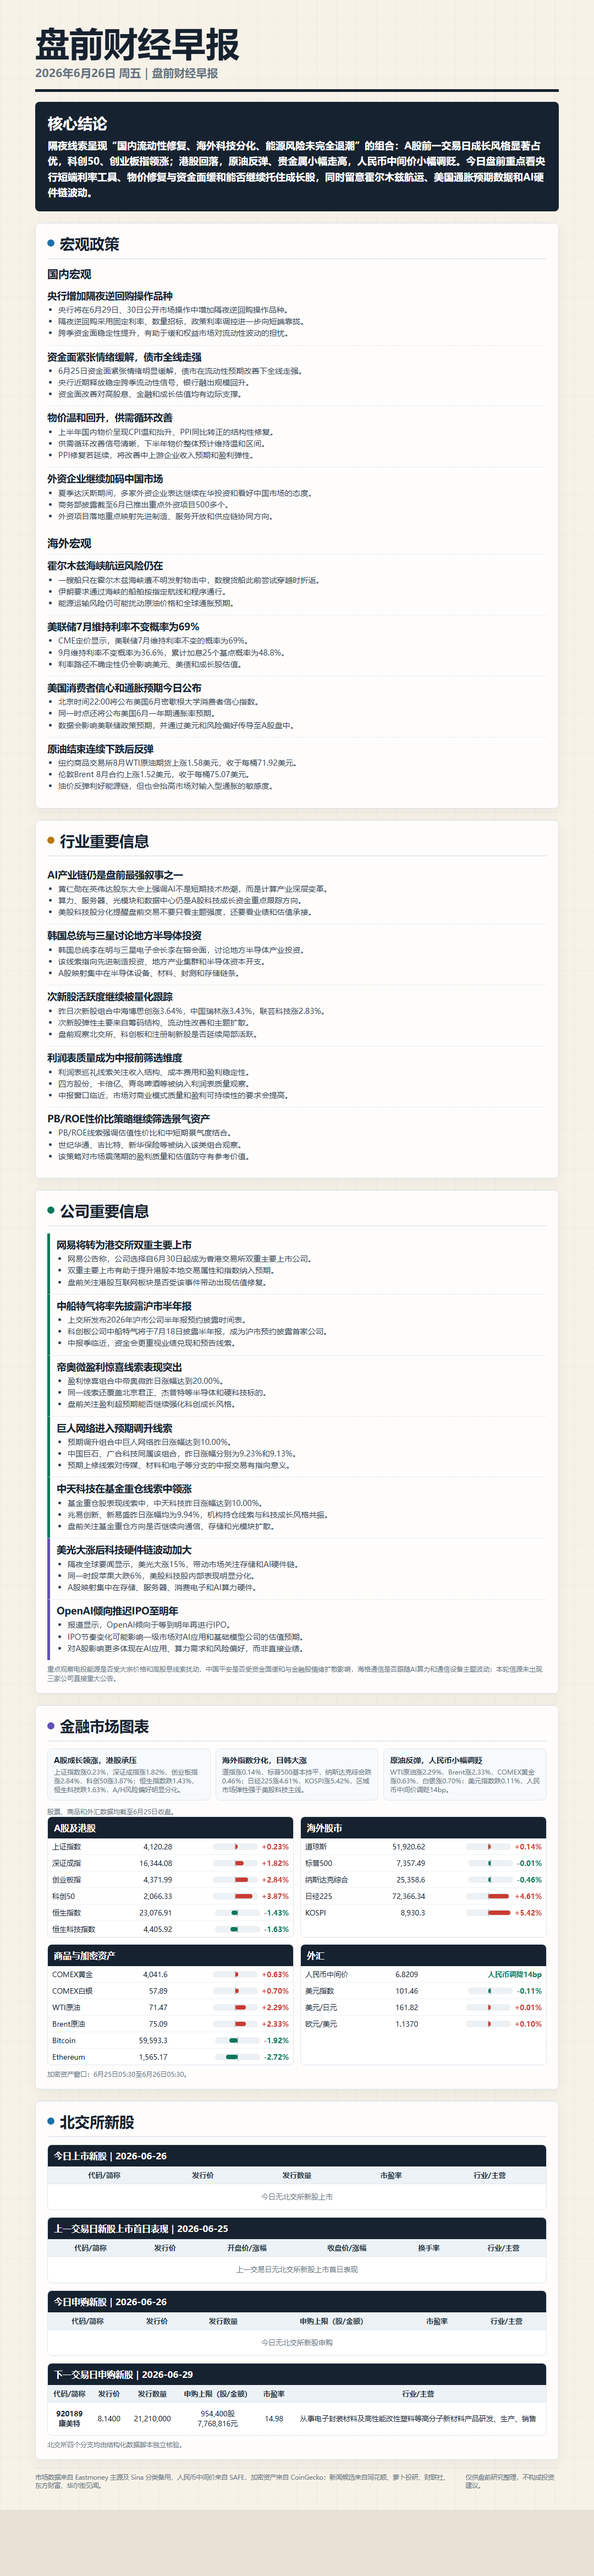
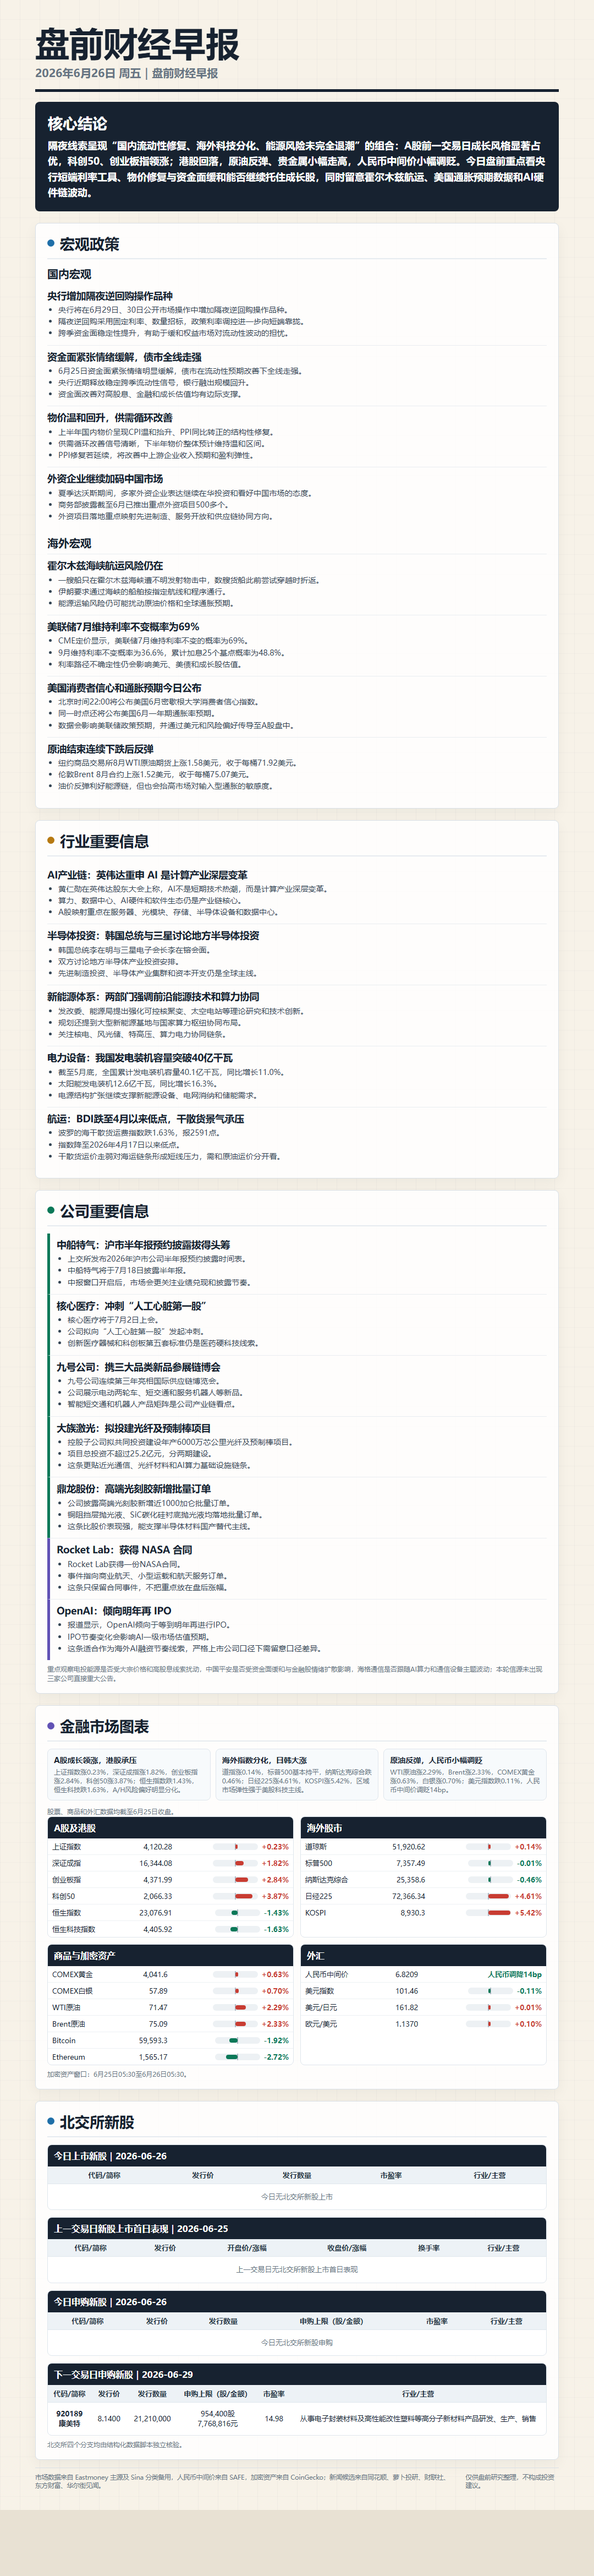
Correct 2026-06-26 morning brief

Changed region(s): [[0.0917, 0.3432, 0.5194, 0.6551]]

diff --git a/2026-06-26/report.html b/2026-06-26/report.html
@@ -59,53 +59,53 @@
     </article></section>
   <section class="section"><h2 class="section-title"><span class="dot" style="background:var(--gold)"></span>行业重要信息</h2>
     <article class="item ">
-      <h4>AI产业链仍是盘前最强叙事之一</h4>
-      <ul><li>黄仁勋在英伟达股东大会上强调AI不是短期技术热潮，而是计算产业深层变革。</li><li>算力、服务器、光模块和数据中心仍是A股科技成长资金重点跟踪方向。</li><li>美股科技股分化提醒盘前交易不要只看主题强度，还要看业绩和估值承接。</li></ul>
+      <h4>AI产业链：英伟达重申 AI 是计算产业深层变革</h4>
+      <ul><li>黄仁勋在英伟达股东大会上称，AI不是短期技术热潮，而是计算产业深层变革。</li><li>算力、数据中心、AI硬件和软件生态仍是产业链核心。</li><li>A股映射重点在服务器、光模块、存储、半导体设备和数据中心。</li></ul>
     </article>
     <article class="item ">
-      <h4>韩国总统与三星讨论地方半导体投资</h4>
-      <ul><li>韩国总统李在明与三星电子会长李在镕会面，讨论地方半导体产业投资。</li><li>该线索指向先进制造投资、地方产业集群和半导体资本开支。</li><li>A股映射集中在半导体设备、材料、封测和存储链条。</li></ul>
+      <h4>半导体投资：韩国总统与三星讨论地方半导体投资</h4>
+      <ul><li>韩国总统李在明与三星电子会长李在镕会面。</li><li>双方讨论地方半导体产业投资安排。</li><li>先进制造投资、半导体产业集群和资本开支仍是全球主线。</li></ul>
     </article>
     <article class="item ">
-      <h4>次新股活跃度继续被量化跟踪</h4>
-      <ul><li>昨日次新股组合中海博思创涨3.64%，中国瑞林涨3.43%，联芸科技涨2.83%。</li><li>次新股弹性主要来自筹码结构、流动性改善和主题扩散。</li><li>盘前观察北交所、科创板和注册制新股是否延续局部活跃。</li></ul>
+      <h4>新能源体系：两部门强调前沿能源技术和算力协同</h4>
+      <ul><li>发改委、能源局提出强化可控核聚变、太空电站等理论研究和技术创新。</li><li>规划还提到大型新能源基地与国家算力枢纽协同布局。</li><li>关注核电、风光储、特高压、算力电力协同链条。</li></ul>
     </article>
     <article class="item ">
-      <h4>利润表质量成为中报前筛选维度</h4>
-      <ul><li>利润表巡礼线索关注收入结构、成本费用和盈利稳定性。</li><li>四方股份、卡倍亿、青岛啤酒等被纳入利润表质量观察。</li><li>中报窗口临近，市场对商业模式质量和盈利可持续性的要求会提高。</li></ul>
+      <h4>电力设备：我国发电装机容量突破40亿千瓦</h4>
+      <ul><li>截至5月底，全国累计发电装机容量40.1亿千瓦，同比增长11.0%。</li><li>太阳能发电装机12.6亿千瓦，同比增长16.3%。</li><li>电源结构扩张继续支撑新能源设备、电网消纳和储能需求。</li></ul>
     </article>
     <article class="item ">
-      <h4>PB/ROE性价比策略继续筛选景气资产</h4>
-      <ul><li>PB/ROE线索强调估值性价比和中短期景气度结合。</li><li>世纪华通、吉比特、新华保险等被纳入该类组合观察。</li><li>该策略对市场震荡期的盈利质量和估值防守有参考价值。</li></ul>
+      <h4>航运：BDI跌至4月以来低点，干散货景气承压</h4>
+      <ul><li>波罗的海干散货运费指数跌1.63%，报2591点。</li><li>指数降至2026年4月17日以来低点。</li><li>干散货运价走弱对海运链条形成短线压力，需和原油运价分开看。</li></ul>
     </article></section>
   <section class="section"><h2 class="section-title"><span class="dot" style="background:var(--green)"></span>公司重要信息</h2>
     <article class="item company-line">
-      <h4>网易将转为港交所双重主要上市</h4>
-      <ul><li>网易公告称，公司选择自6月30日起成为香港交易所双重主要上市公司。</li><li>双重主要上市有助于提升港股本地交易属性和指数纳入预期。</li><li>盘前关注港股互联网板块是否受该事件带动出现估值修复。</li></ul>
+      <h4>中船特气：沪市半年报预约披露拔得头筹</h4>
+      <ul><li>上交所发布2026年沪市公司半年报预约披露时间表。</li><li>中船特气将于7月18日披露半年报。</li><li>中报窗口开启后，市场会更关注业绩兑现和披露节奏。</li></ul>
     </article>
     <article class="item company-line">
-      <h4>中船特气将率先披露沪市半年报</h4>
-      <ul><li>上交所发布2026年沪市公司半年报预约披露时间表。</li><li>科创板公司中船特气将于7月18日披露半年报，成为沪市预约披露首家公司。</li><li>中报季临近，资金会更重视业绩兑现和预告线索。</li></ul>
+      <h4>核心医疗：冲刺“人工心脏第一股”</h4>
+      <ul><li>核心医疗将于7月2日上会。</li><li>公司拟向“人工心脏第一股”发起冲刺。</li><li>创新医疗器械和科创板第五套标准仍是医药硬科技线索。</li></ul>
     </article>
     <article class="item company-line">
-      <h4>帝奥微盈利惊喜线索表现突出</h4>
-      <ul><li>盈利惊喜组合中帝奥微昨日涨幅达到20.00%。</li><li>同一线索还覆盖北京君正、杰普特等半导体和硬科技标的。</li><li>盘前关注盈利超预期能否继续强化科创成长风格。</li></ul>
+      <h4>九号公司：携三大品类新品参展链博会</h4>
+      <ul><li>九号公司连续第三年亮相国际供应链博览会。</li><li>公司展示电动两轮车、短交通和服务机器人等新品。</li><li>智能短交通和机器人产品矩阵是公司产业链看点。</li></ul>
     </article>
     <article class="item company-line">
-      <h4>巨人网络进入预期调升线索</h4>
-      <ul><li>预期调升组合中巨人网络昨日涨幅达到10.00%。</li><li>中国巨石、广合科技同属该组合，昨日涨幅分别为9.23%和9.13%。</li><li>预期上修线索对传媒、材料和电子等分支的中报交易有指向意义。</li></ul>
+      <h4>大族激光：拟投建光纤及预制棒项目</h4>
+      <ul><li>控股子公司拟共同投资建设年产6000万芯公里光纤及预制棒项目。</li><li>项目总投资不超过25.2亿元，分两期建设。</li><li>这条更贴近光通信、光纤材料和AI算力基础设施链条。</li></ul>
     </article>
     <article class="item company-line">
-      <h4>中天科技在基金重仓线索中领涨</h4>
-      <ul><li>基金重仓股表现线索中，中天科技昨日涨幅达到10.00%。</li><li>兆易创新、新易盛昨日涨幅均为9.94%，机构持仓线索与科技成长风格共振。</li><li>盘前关注基金重仓方向是否继续向通信、存储和光模块扩散。</li></ul>
+      <h4>鼎龙股份：高端光刻胶新增批量订单</h4>
+      <ul><li>公司披露高端光刻胶新增近1000加仑批量订单。</li><li>铜阻挡层抛光液、SiC碳化硅衬底抛光液均落地批量订单。</li><li>这条比股价表现强，能支撑半导体材料国产替代主线。</li></ul>
     </article>
     <article class="item company-line overseas">
-      <h4>美光大涨后科技硬件链波动加大</h4>
-      <ul><li>隔夜全球要闻显示，美光大涨15%，带动市场关注存储和AI硬件链。</li><li>同一时段苹果大跌6%，美股科技股内部表现明显分化。</li><li>A股映射集中在存储、服务器、消费电子和AI算力硬件。</li></ul>
+      <h4>Rocket Lab：获得 NASA 合同</h4>
+      <ul><li>Rocket Lab获得一份NASA合同。</li><li>事件指向商业航天、小型运载和航天服务订单。</li><li>这条只保留合同事件，不把重点放在盘后涨幅。</li></ul>
     </article>
     <article class="item company-line overseas">
-      <h4>OpenAI倾向推迟IPO至明年</h4>
-      <ul><li>报道显示，OpenAI倾向于等到明年再进行IPO。</li><li>IPO节奏变化可能影响一级市场对AI应用和基础模型公司的估值预期。</li><li>对A股影响更多体现在AI应用、算力需求和风险偏好，而非直接业绩。</li></ul>
+      <h4>OpenAI：倾向明年再 IPO</h4>
+      <ul><li>报道显示，OpenAI倾向于等到明年再进行IPO。</li><li>IPO节奏变化会影响AI一级市场估值预期。</li><li>这条适合作为海外AI融资节奏线索，严格上市公司口径下需留意口径差异。</li></ul>
     </article><p class="check-note">重点观察电投能源是否受大宗价格和高股息线索扰动，中国平安是否受资金面缓和与金融股情绪扩散影响，海格通信是否跟随AI算力和通信设备主题波动；本轮信源未出现三家公司直接重大公告。</p></section>
   <section class="section"><h2 class="section-title"><span class="dot" style="background:var(--violet)"></span>金融市场图表</h2><div class="market-headlines"><div class="market-note"><b>A股成长领涨，港股承压</b><span>上证指数涨0.23%，深证成指涨1.82%，创业板指涨2.84%，科创50涨3.87%；恒生指数跌1.43%，恒生科技跌1.63%，A/H风险偏好明显分化。</span></div><div class="market-note"><b>海外指数分化，日韩大涨</b><span>道指涨0.14%，标普500基本持平，纳斯达克综合跌0.46%；日经225涨4.61%，KOSPI涨5.42%，区域市场弹性强于美股科技主线。</span></div><div class="market-note"><b>原油反弹，人民币小幅调贬</b><span>WTI原油涨2.29%，Brent涨2.33%，COMEX黄金涨0.63%，白银涨0.70%；美元指数跌0.11%，人民币中间价调贬14bp。</span></div></div><p class="market-caption">股票、商品和外汇数据均截至6月25日收盘。</p><div class="market-grid"><div class="market-box"><h3>A股及港股</h3><table><tr><td>上证指数</td><td>4,120.28</td><td><span class="bar-wrap"><span class="bar pos upb" style="width:4.0px"></span></span><span class="up">+0.23%</span></td></tr><tr><td>深证成指</td><td>16,344.08</td><td><span class="bar-wrap"><span class="bar pos upb" style="width:14.6px"></span></span><span class="up">+1.82%</span></td></tr><tr><td>创业板指</td><td>4,371.99</td><td><span class="bar-wrap"><span class="bar pos upb" style="width:22.7px"></span></span><span class="up">+2.84%</span></td></tr><tr><td>科创50</td><td>2,066.33</td><td><span class="bar-wrap"><span class="bar pos upb" style="width:30.9px"></span></span><span class="up">+3.87%</span></td></tr><tr><td>恒生指数</td><td>23,076.91</td><td><span class="bar-wrap"><span class="bar neg downb" style="width:11.5px"></span></span><span class="down">-1.43%</span></td></tr><tr><td>恒生科技指数</td><td>4,405.92</td><td><span class="bar-wrap"><span class="bar neg downb" style="width:13.1px"></span></span><span class="down">-1.63%</span></td></tr></table></div><div class="market-box"><h3>海外股市</h3><table><tr><td>道琼斯</td><td>51,920.62</td><td><span class="bar-wrap"><span class="bar pos upb" style="width:4.0px"></span></span><span class="up">+0.14%</span></td></tr><tr><td>标普500</td><td>7,357.49</td><td><span class="bar-wrap"><span class="bar neg downb" style="width:4.0px"></span></span><span class="down">-0.01%</span></td></tr><tr><td>纳斯达克综合</td><td>25,358.6</td><td><span class="bar-wrap"><span class="bar neg downb" style="width:4.0px"></span></span><span class="down">-0.46%</span></td></tr><tr><td>日经225</td><td>72,366.34</td><td><span class="bar-wrap"><span class="bar pos upb" style="width:36.9px"></span></span><span class="up">+4.61%</span></td></tr><tr><td>KOSPI</td><td>8,930.3</td><td><span class="bar-wrap"><span class="bar pos upb" style="width:40.0px"></span></span><span class="up">+5.42%</span></td></tr></table></div><div class="market-box"><h3>商品与加密资产</h3><table><tr><td>COMEX黄金</td><td>4,041.6</td><td><span class="bar-wrap"><span class="bar pos upb" style="width:5.0px"></span></span><span class="up">+0.63%</span></td></tr><tr><td>COMEX白银</td><td>57.89</td><td><span class="bar-wrap"><span class="bar pos upb" style="width:5.6px"></span></span><span class="up">+0.70%</span></td></tr><tr><td>WTI原油</td><td>71.47</td><td><span class="bar-wrap"><span class="bar pos upb" style="width:18.3px"></span></span><span class="up">+2.29%</span></td></tr><tr><td>Brent原油</td><td>75.09</td><td><span class="bar-wrap"><span class="bar pos upb" style="width:18.6px"></span></span><span class="up">+2.33%</span></td></tr><tr><td>Bitcoin</td><td>59,593.3</td><td><span class="bar-wrap"><span class="bar neg downb" style="width:15.4px"></span></span><span class="down">-1.92%</span></td></tr><tr><td>Ethereum</td><td>1,565.17</td><td><span class="bar-wrap"><span class="bar neg downb" style="width:21.8px"></span></span><span class="down">-2.72%</span></td></tr></table></div><div class="market-box"><h3>外汇</h3><table><tr><td>人民币中间价</td><td>6.8209</td><td><span class="down">人民币调降14bp</span></td></tr><tr><td>美元指数</td><td>101.46</td><td><span class="bar-wrap"><span class="bar neg downb" style="width:4.0px"></span></span><span class="down">-0.11%</span></td></tr><tr><td>美元/日元</td><td>161.82</td><td><span class="bar-wrap"><span class="bar pos upb" style="width:4.0px"></span></span><span class="up">+0.01%</span></td></tr><tr><td>欧元/美元</td><td>1.1370</td><td><span class="bar-wrap"><span class="bar pos upb" style="width:4.0px"></span></span><span class="up">+0.10%</span></td></tr></table></div></div><p class="market-caption">加密资产窗口：6月25日05:30至6月26日05:30。</p></section>
   <section class="section"><h2 class="section-title"><span class="dot" style="background:var(--blue)"></span>北交所新股</h2><div class="ipo-box"><h3>今日上市新股｜2026-06-26</h3><table class="ipo-table"><tr><th>代码/简称</th><th>发行价</th><th>发行数量</th><th>市盈率</th><th>行业/主营</th></tr><tr><td class="empty" colspan="5">今日无北交所新股上市</td></tr></table></div><div class="ipo-box"><h3>上一交易日新股上市首日表现｜2026-06-25</h3><table class="ipo-table"><tr><th>代码/简称</th><th>发行价</th><th>开盘价/涨幅</th><th>收盘价/涨幅</th><th>换手率</th><th>行业/主营</th></tr><tr><td class="empty" colspan="6">上一交易日无北交所新股上市首日表现</td></tr></table></div><div class="ipo-box"><h3>今日申购新股｜2026-06-26</h3><table class="ipo-table"><tr><th>代码/简称</th><th>发行价</th><th>发行数量</th><th>申购上限（股/金额）</th><th>市盈率</th><th>行业/主营</th></tr><tr><td class="empty" colspan="6">今日无北交所新股申购</td></tr></table></div><div class="ipo-box"><h3>下一交易日申购新股｜2026-06-29</h3><table class="ipo-table"><tr><th>代码/简称</th><th>发行价</th><th>发行数量</th><th>申购上限（股/金额）</th><th>市盈率</th><th>行业/主营</th></tr><tr><td class="codecell">920189<br>康美特</td><td>8.1400</td><td>21,210,000</td><td class="shares">954,400股<br>7,768,816元</td><td>14.98</td><td>从事电子封装材料及高性能改性塑料等高分子新材料产品研发、生产、销售</td></tr></table></div><div class="check-note">北交所四个分支均由结构化数据脚本独立核验。</div></section>

diff --git a/2026-06-26/sources-2026-06-26.md b/2026-06-26/sources-2026-06-26.md
@@ -2,7 +2,8 @@
 
 - Market data: Eastmoney primary for A/H, overseas indices, commodities and FX; Sina used for Nasdaq Composite; SAFE RMB midpoint; CoinGecko crypto window snapshots.
 - Market gate: `validated-data.json` status ok; `market-review-2026-06-26.json` status ok; BSE status ok.
-- News candidate audit: 同花顺 ok 15; 萝卜投研 candidate_short 9 via OpenCLI Chrome login-state feed; 财联社 ok 15; 东方财富 ok 15; 华尔街见闻 ok 15.
-- News routes: https://news.10jqka.com.cn/yaowen/ ; https://robo.datayes.com/ ; https://m.cls.cn/telegraph ; https://np-weblist.eastmoney.com/comm/web/getFastNewsList ; https://api-one.wallstcn.com/apiv1/content/lives?channel=global-channel&limit=20
+- News candidate audit: 同花顺 ok 15; 萝卜投研 candidate_short 9 via OpenCLI Chrome feed; 财联社 ok 15; 东方财富 ok 15; 华尔街见闻 ok 15.
+- Corrected industry/company writing after review: removed stock-performance and strategy-screening company items; kept confirmed industry/company items and supplemented domestic company events from 东方财富.
+- Key news URLs used in corrected sections: http://news.10jqka.com.cn/20260625/c677723174.shtml ; http://news.10jqka.com.cn/20260625/c677723647.shtml ; http://news.10jqka.com.cn/20260625/c677714250.shtml ; http://field.10jqka.com.cn/20260626/c677726209.shtml ; http://news.10jqka.com.cn/20260625/c677723002.shtml ; https://finance.eastmoney.com/a/202606253783176725.html ; http://news.10jqka.com.cn/20260626/c677725297.shtml ; http://news.10jqka.com.cn/20260626/c677725508.shtml ; https://finance.eastmoney.com/a/202606253783294243.html ; https://finance.eastmoney.com/a/202606253783304697.html ; https://finance.eastmoney.com/a/202606263783495561.html ; https://finance.eastmoney.com/a/202606263783495495.html
 - BSE data: Eastmoney structured data; today listings 0, previous trading-day listings 0, today subscriptions 0, next trading-day subscriptions 1 (康美特, 920189).
-- Content gate: fixed renderer validation passed; industry/company cross-section duplicate check passed after replacing one duplicate industry item.
+- Content gate: fixed renderer validation passed; visual check passed on corrected PNG.
